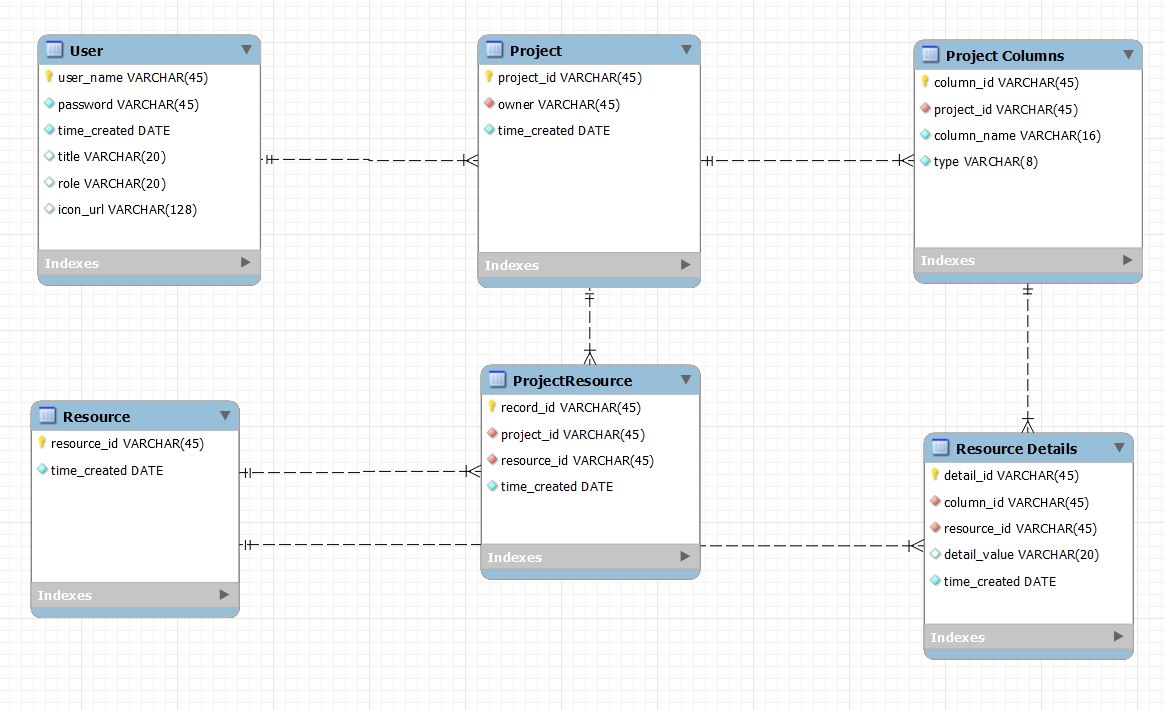
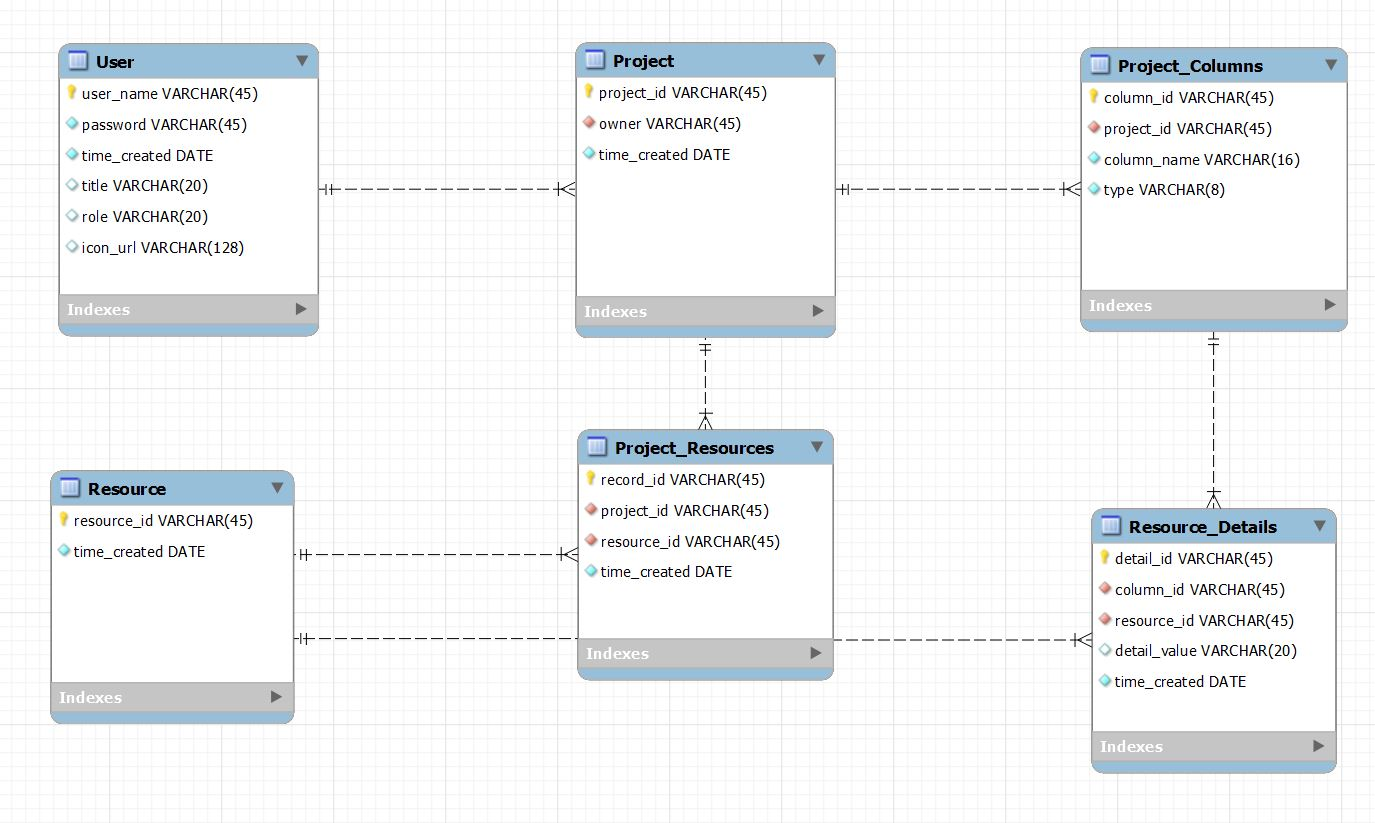
Diagram and Entities

diff --git a/demo/src/main/java/ResourceManager/model/ProjectColumns.java b/demo/src/main/java/ResourceManager/model/ProjectColumns.java
@@ -1,0 +1,65 @@
+package ResourceManager.model;
+
+import javax.persistence.*;
+import java.security.PublicKey;
+import java.util.List;
+
+
+@Entity
+@Table(name="Project_Columns")
+public class ProjectColumns {
+    public enum Type{
+        Number, Text, Formula
+    }
+
+    @Id
+    @GeneratedValue(strategy = GenerationType.IDENTITY)
+    private Integer column_id;
+
+    @ManyToOne
+    @JoinColumn(name="project_id")
+    private Project project;
+
+    @OneToMany(mappedBy = "projectColumns", fetch = FetchType.EAGER)
+    private List<ResourceDetails> resourceDetails;
+
+    private String column_name;
+    private Type type;  //Number, Text, Formula
+    //fomula_text
+
+    public Integer getColumn_id(){return column_id;}
+
+    public void setColumn_id(Integer column_id){this.column_id=column_id;}
+
+    public Project getProject(){return project;}
+
+    public void setProject(Project project){this.project=project;}
+
+    public List<ResourceDetails> getResourceDetails(){return resourceDetails;}
+
+    public void setResourceDetails(List<ResourceDetails> resourceDetails){
+        this.resourceDetails=resourceDetails;
+    }
+
+    public void setColumn_name(String column_name){this.column_name=column_name;}
+
+    public String getColumn_name(){return column_name;}
+
+    public void setType(Type type){this.type=type;}
+
+    public Type getType(){return type;}
+
+    //set&getFormula_text()
+
+    @Override
+    public String toString(){
+        return "ProjectColumn["+
+                ", column_id="+column_id+
+                ", project="+project+
+                ", column_name="+column_name+
+                ", type="+type+
+                ", resourceDetails="+resourceDetails+
+                "]";
+    }
+
+}

diff --git a/demo/src/main/java/ResourceManager/model/ProjectResources.java b/demo/src/main/java/ResourceManager/model/ProjectResources.java
@@ -1,0 +1,60 @@
+package ResourceManager.model;
+
+import javax.persistence.*;
+import java.sql.Timestamp;
+
+
+@Entity
+@Table(name="Project_Resources")
+public class ProjectResources {
+
+    @Id
+    @GeneratedValue(strategy = GenerationType.IDENTITY)
+    private Integer record_id;
+
+    @ManyToOne
+    @JoinColumn(name="project_id")
+    private Project project;
+
+    @ManyToOne
+    @JoinColumn(name="resource_id")
+    private Resource resource;
+
+    private Timestamp time_created;
+
+
+    public Integer getRecord_id(){
+        return record_id;
+    }
+    public void setRecord_id(Integer record_id){
+        this.record_id=record_id;
+    }
+    public Project getProject(){
+        return project;
+    }
+    public void setProject(Project project){
+        this.project=project;
+    }
+    public void setResource(Resource resource) {
+        this.resource=resource;
+    }
+    public Resource getResource(){
+        return resource;
+    }
+    public void setTime_created(Timestamp timestamp){
+        this.time_created=timestamp;
+    }
+    public Timestamp getTime_created(){
+        return time_created;
+    }
+    @Override
+    public String toString(){
+        return "ProjectResource["+ "record_id=" + record_id+
+                ", time_created=" + time_created+
+                ", resource=" + resource+
+                ", project=" + project+
+                "]";
+    }
+
+
+}
